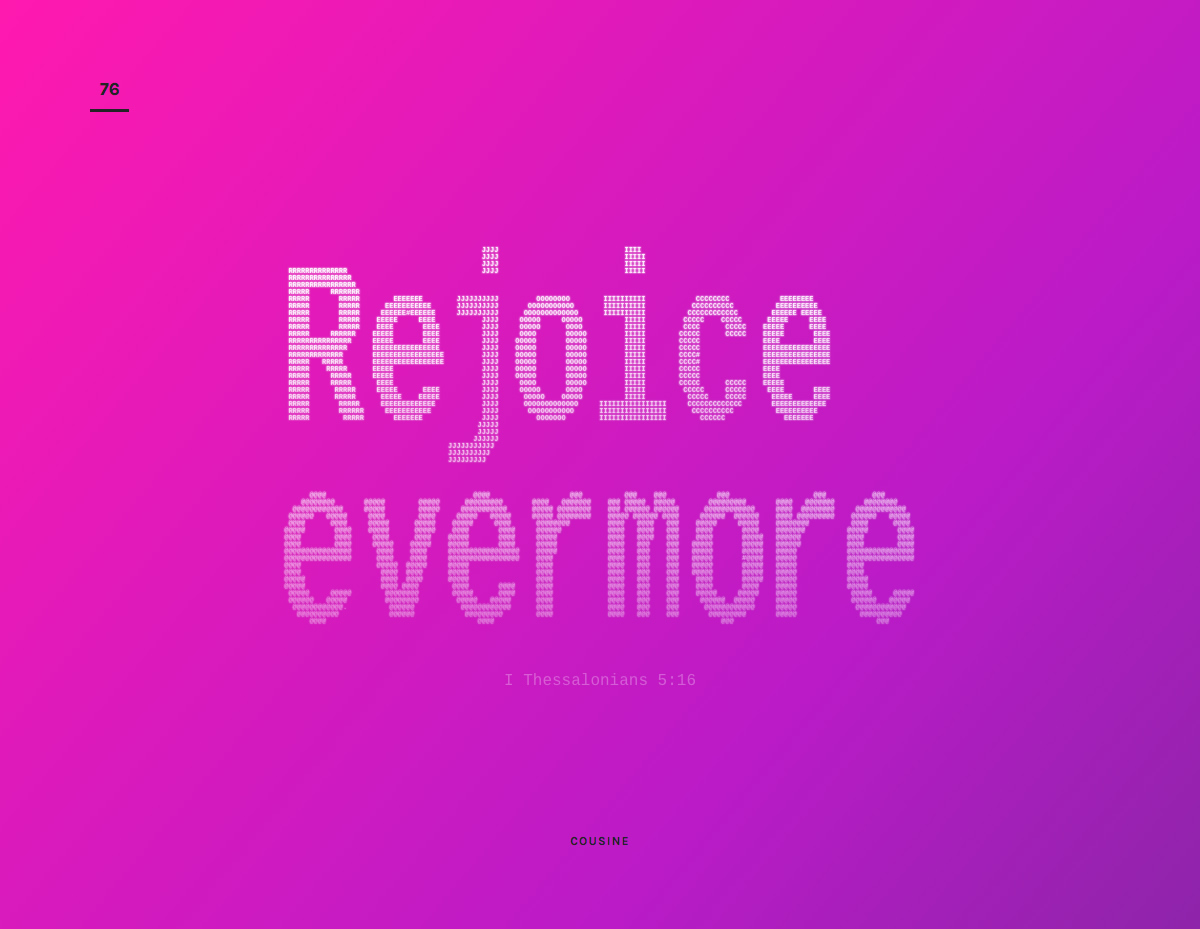
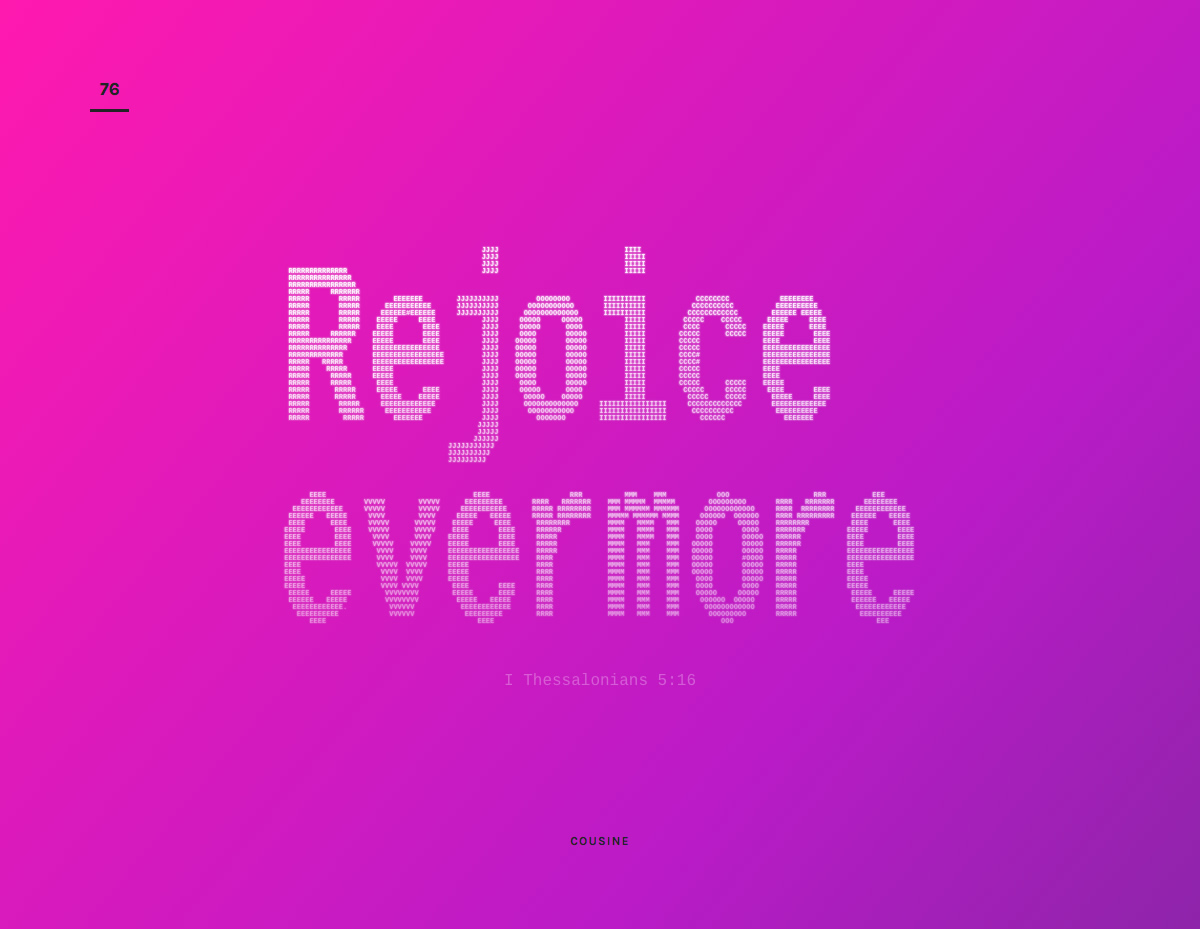
Fix Day 76.

Changed region(s): [[0.2158, 0.5307, 0.7708, 0.6868]]

diff --git a/index.html b/index.html
@@ -10,7 +10,7 @@
   <style>
     @charset "UTF-8";a,aside,b,blockquote,body,cite,div,em,figcaption,figure,footer,h1,h2,h3,h4,h5,h6,header,html,i,img,li,nav,ol,p,q,section,small,span,strong,sub,sup,time,ul{font:inherit;vertical-align:baseline;border:0;padding:0;margin:0}.about-description,.container,.day-scripture{margin-left:auto;margin-right:auto}.about-title-head,.about-title-tail,em,i{font-style:italic}.day-76-pre,.day-info,.day-number,b,strong{font-weight:700}article,aside,details,figcaption,figure,footer,header,nav,section{display:block}body{line-height:1;font-family:KarlaLocal,"Open Sans",Helvetica,Arial,sans-serif;color:#222324;text-rendering:optimizeLegibility;-webkit-font-variant-ligatures:common-ligatures;font-variant-ligatures:common-ligatures;-webkit-font-feature-settings:"liga";font-feature-settings:"liga"}ol,ul{list-style:none}blockquote,q{quotes:none}blockquote:after,blockquote:before,q:after,q:before{content:'';content:none}@font-face{font-family:KarlaLocal;font-weight:400;font-style:normal;src:local("Karla"),local("Karla-Regular")}@font-face{font-family:KarlaLocal;font-weight:700;font-style:normal;src:local("Karla"),local("Karla-Bold")}@font-face{font-family:PlayfairDisplayLocal;font-weight:400;font-style:normal;src:local("Playfair Display"),local("PlayfairDisplay-Regular")}@font-face{font-family:PlayfairDisplayLocal;font-weight:700;font-style:normal;src:local("Playfair Display"),local("PlayfairDisplay-Bold")}@font-face{font-family:PlayfairDisplayLocal;font-weight:700;font-style:italic;src:local("Playfair Display"),local("PlayfairDisplay-BoldItalic")}.fonts-loaded-100 body{font-family:Karla,KarlaLocal,"Open Sans",Helvetica,Arial,sans-serif}.fonts-timeout-100 body{font-family:KarlaLocal,Karla,"Open Sans",Helvetica,Arial,sans-serif}a{color:#3498db;text-decoration:none}.footer,.footer a{color:#fdfeff}a:hover{text-decoration:underline}.container{max-width:64em}.footer{font-size:.875em;text-align:center;background-color:#222324;padding-top:1.5625em;padding-bottom:1.5625em}@media only screen and (min-width:40em){.footer{padding-top:1.875em;padding-bottom:1.875em}}@media only screen and (min-width:52em){.footer{padding-top:2.5em;padding-bottom:2.5em}}.day-number{color:#222324;text-align:center;border-bottom:3px solid #222324;display:inline-block;width:2.1875em;padding-bottom:.625em;margin-bottom:3.5em}.day--14 .day-number,.day--15 .day-number,.day--2 .day-number,.day--5 .day-number,.day--9 .day-number,.day-number--white{color:#fdfeff;border-bottom-color:#fdfeff}.day-scripture{max-width:80em}.day-scripture::after{clear:both;content:"";display:table}.day-info{font-size:.75em;letter-spacing:.1em;text-transform:uppercase;text-align:center;margin-top:5.33333em}.day-reference{display:block}.day-font{color:#8a8b8c;line-height:1.4}.day-font-link{color:#222324}.about,.day{overflow:hidden;padding:2.5em .9375em}@media only screen and (min-width:30em){.about,.day{padding:3.125em 1.875em}.day-number{margin-bottom:4.0625em}.day-info{margin-top:6.25em}}@media only screen and (min-width:40em){.about,.day{padding:3.75em 3.4375em}.day-number{font-size:1.0625em;margin-bottom:4.23529em}.day-info{margin-top:7em}}@media only screen and (min-width:52em){.about,.day{padding:4.375em 4.6875em}.day-number{margin-bottom:4.8125em}.day-info{margin-top:7.58333em}}@media only screen and (min-width:64em){.about,.day{padding:5em 5.625em}.day-number{font-size:1.125em;margin-bottom:4.44444em}.day-info{margin-top:8em}}.about{background-color:#f2f3f4}.about-title-wrap{text-align:center}.about-title{font-family:PlayfairDisplayLocal,"Times New Roman",Times,serif;margin-bottom:1.25em}.fonts-loaded-100 .about-title{font-family:"Playfair Display",PlayfairDisplayLocal,"Times New Roman",Times,serif}.fonts-timeout-100 .about-title{font-family:PlayfairDisplayLocal,"Playfair Display","Times New Roman",Times,serif}.about-title-head{font-size:2.5em;font-weight:700;display:block}.about-title-tail{font-size:1em;letter-spacing:.22em;text-transform:uppercase;position:relative;left:.0625em}.about-description{color:#454647;line-height:1.3;letter-spacing:-.02em;max-width:31.25em}.about-description p:first-child{margin-bottom:.5em}.day--76{background:linear-gradient(130deg,#ff19af,#ba1bc7 70%,#8e24aa)}.day--76 .day-scripture{padding-top:1em;padding-bottom:1em}@media only screen and (min-width:30em){.day--76 .day-scripture{padding-top:2em;padding-bottom:2em}}@media only screen and (min-width:40em){.container--about{display:-webkit-flex;display:-ms-flexbox;display:flex;-webkit-justify-content:center;-ms-flex-pack:center;justify-content:center}.about-title-wrap{text-align:right;-webkit-flex:0 0 13.125em;-ms-flex:0 0 13.125em;flex:0 0 13.125em;margin-right:3.125em}.about-description{-webkit-flex:1;-ms-flex:1;flex:1;max-width:25em;margin-left:0;margin-right:0}.about-title{margin-top:-.9375em;margin-bottom:0}.about-title-head{font-size:3em}.about-title-tail{font-size:1.1875em;letter-spacing:.23em;left:.18421em}.day--76 .day-scripture{padding-top:3em;padding-bottom:3em}}.day--76 .day-text{font-family:Cousine,mono;-moz-osx-font-smoothing:grayscale;-webkit-font-smoothing:antialiased}.day--76 .day-reference{margin-top:2em;text-align:center}@media only screen and (min-width:52em){.about-title-head{font-size:4em}.about-title-tail{font-size:1.375em;letter-spacing:.355em;left:.27273em}.about-title-wrap{-webkit-flex-basis:16.875em;-ms-flex-preferred-size:16.875em;flex-basis:16.875em;margin-right:4.375em}.day--76 .day-scripture{padding-top:3em;padding-bottom:3em}.day--76 .day-reference{margin-top:3em}}.day--76 .day-reference-link{color:rgba(253,254,255,.3)}.day-76-pre{font-size:3px;width:280px;margin-left:auto;margin-right:auto;white-space:pre-wrap}@media only screen and (min-width:30em){.day-76-pre{font-size:4px;width:370px}}@media only screen and (min-width:40em){.day-76-pre{font-size:5px;width:460px}}@media only screen and (min-width:52em){.day-76-pre{font-size:7px;width:640px}}.day-76-pre-1{color:rgba(253,254,255,.948);text-shadow:0 0 1px rgba(253,254,255,.5688),0 0 2px rgba(253,254,255,.474),0 0 3px rgba(253,254,255,.3792)}.day-76-pre-2{color:rgba(253,254,255,.936);text-shadow:0 0 1px rgba(253,254,255,.5616),0 0 2px rgba(253,254,255,.468),0 0 3px rgba(253,254,255,.3744)}.day-76-pre-3{color:rgba(253,254,255,.924);text-shadow:0 0 1px rgba(253,254,255,.5544),0 0 2px rgba(253,254,255,.462),0 0 3px rgba(253,254,255,.3696)}.day-76-pre-4{color:rgba(253,254,255,.912);text-shadow:0 0 1px rgba(253,254,255,.5472),0 0 2px rgba(253,254,255,.456),0 0 3px rgba(253,254,255,.3648)}.day-76-pre-5{color:rgba(253,254,255,.9);text-shadow:0 0 1px rgba(253,254,255,.54),0 0 2px rgba(253,254,255,.45),0 0 3px rgba(253,254,255,.36)}.day-76-pre-6{color:rgba(253,254,255,.888);text-shadow:0 0 1px rgba(253,254,255,.5328),0 0 2px rgba(253,254,255,.444),0 0 3px rgba(253,254,255,.3552)}.day-76-pre-7{color:rgba(253,254,255,.876);text-shadow:0 0 1px rgba(253,254,255,.5256),0 0 2px rgba(253,254,255,.438),0 0 3px rgba(253,254,255,.3504)}.day-76-pre-8{color:rgba(253,254,255,.864);text-shadow:0 0 1px rgba(253,254,255,.5184),0 0 2px rgba(253,254,255,.432),0 0 3px rgba(253,254,255,.3456)}.day-76-pre-9{color:rgba(253,254,255,.852);text-shadow:0 0 1px rgba(253,254,255,.5112),0 0 2px rgba(253,254,255,.426),0 0 3px rgba(253,254,255,.3408)}.day-76-pre-10{color:rgba(253,254,255,.84);text-shadow:0 0 1px rgba(253,254,255,.504),0 0 2px rgba(253,254,255,.42),0 0 3px rgba(253,254,255,.336)}.day-76-pre-11{color:rgba(253,254,255,.828);text-shadow:0 0 1px rgba(253,254,255,.4968),0 0 2px rgba(253,254,255,.414),0 0 3px rgba(253,254,255,.3312)}.day-76-pre-12{color:rgba(253,254,255,.816);text-shadow:0 0 1px rgba(253,254,255,.4896),0 0 2px rgba(253,254,255,.408),0 0 3px rgba(253,254,255,.3264)}.day-76-pre-13{color:rgba(253,254,255,.804);text-shadow:0 0 1px rgba(253,254,255,.4824),0 0 2px rgba(253,254,255,.402),0 0 3px rgba(253,254,255,.3216)}.day-76-pre-14{color:rgba(253,254,255,.792);text-shadow:0 0 1px rgba(253,254,255,.4752),0 0 2px rgba(253,254,255,.396),0 0 3px rgba(253,254,255,.3168)}.day-76-pre-15{color:rgba(253,254,255,.78);text-shadow:0 0 1px rgba(253,254,255,.468),0 0 2px rgba(253,254,255,.39),0 0 3px rgba(253,254,255,.312)}.day-76-pre-16{color:rgba(253,254,255,.768);text-shadow:0 0 1px rgba(253,254,255,.4608),0 0 2px rgba(253,254,255,.384),0 0 3px rgba(253,254,255,.3072)}.day-76-pre-17{color:rgba(253,254,255,.756);text-shadow:0 0 1px rgba(253,254,255,.4536),0 0 2px rgba(253,254,255,.378),0 0 3px rgba(253,254,255,.3024)}.day-76-pre-18{color:rgba(253,254,255,.744);text-shadow:0 0 1px rgba(253,254,255,.4464),0 0 2px rgba(253,254,255,.372),0 0 3px rgba(253,254,255,.2976)}.day-76-pre-19{color:rgba(253,254,255,.732);text-shadow:0 0 1px rgba(253,254,255,.4392),0 0 2px rgba(253,254,255,.366),0 0 3px rgba(253,254,255,.2928)}.day-76-pre-20{color:rgba(253,254,255,.72);text-shadow:0 0 1px rgba(253,254,255,.432),0 0 2px rgba(253,254,255,.36),0 0 3px rgba(253,254,255,.288)}.day-76-pre-21{color:rgba(253,254,255,.708);text-shadow:0 0 1px rgba(253,254,255,.4248),0 0 2px rgba(253,254,255,.354),0 0 3px rgba(253,254,255,.2832)}.day-76-pre-22{color:rgba(253,254,255,.696);text-shadow:0 0 1px rgba(253,254,255,.4176),0 0 2px rgba(253,254,255,.348),0 0 3px rgba(253,254,255,.2784)}.day-76-pre-23{color:rgba(253,254,255,.684);text-shadow:0 0 1px rgba(253,254,255,.4104),0 0 2px rgba(253,254,255,.342),0 0 3px rgba(253,254,255,.2736)}.day-76-pre-24{color:rgba(253,254,255,.672);text-shadow:0 0 1px rgba(253,254,255,.4032),0 0 2px rgba(253,254,255,.336),0 0 3px rgba(253,254,255,.2688)}.day-76-pre-25{color:rgba(253,254,255,.66);text-shadow:0 0 1px rgba(253,254,255,.396),0 0 2px rgba(253,254,255,.33),0 0 3px rgba(253,254,255,.264)}.day-76-pre-26{color:rgba(253,254,255,.648);text-shadow:0 0 1px rgba(253,254,255,.3888),0 0 2px rgba(253,254,255,.324),0 0 3px rgba(253,254,255,.2592)}.day-76-pre-27{color:rgba(253,254,255,.636);text-shadow:0 0 1px rgba(253,254,255,.3816),0 0 2px rgba(253,254,255,.318),0 0 3px rgba(253,254,255,.2544)}.day-76-pre-28{color:rgba(253,254,255,.624);text-shadow:0 0 1px rgba(253,254,255,.3744),0 0 2px rgba(253,254,255,.312),0 0 3px rgba(253,254,255,.2496)}.day-76-pre-29{color:rgba(253,254,255,.612);text-shadow:0 0 1px rgba(253,254,255,.3672),0 0 2px rgba(253,254,255,.306),0 0 3px rgba(253,254,255,.2448)}.day-76-pre-30{color:rgba(253,254,255,.6);text-shadow:0 0 1px rgba(253,254,255,.36),0 0 2px rgba(253,254,255,.3),0 0 3px rgba(253,254,255,.24)}.day-76-pre-31{color:rgba(253,254,255,.588);text-shadow:0 0 1px rgba(253,254,255,.3528),0 0 2px rgba(253,254,255,.294),0 0 3px rgba(253,254,255,.2352)}.day-76-pre-32{color:rgba(253,254,255,.576);text-shadow:0 0 1px rgba(253,254,255,.3456),0 0 2px rgba(253,254,255,.288),0 0 3px rgba(253,254,255,.2304)}.day-76-pre-33{color:rgba(253,254,255,.564);text-shadow:0 0 1px rgba(253,254,255,.3384),0 0 2px rgba(253,254,255,.282),0 0 3px rgba(253,254,255,.2256)}.day-76-pre-34{color:rgba(253,254,255,.552);text-shadow:0 0 1px rgba(253,254,255,.3312),0 0 2px rgba(253,254,255,.276),0 0 3px rgba(253,254,255,.2208)}.day-76-pre-35{color:rgba(253,254,255,.54);text-shadow:0 0 1px rgba(253,254,255,.324),0 0 2px rgba(253,254,255,.27),0 0 3px rgba(253,254,255,.216)}.day-76-pre-36{color:rgba(253,254,255,.528);text-shadow:0 0 1px rgba(253,254,255,.3168),0 0 2px rgba(253,254,255,.264),0 0 3px rgba(253,254,255,.2112)}.day-76-pre-37{color:rgba(253,254,255,.516);text-shadow:0 0 1px rgba(253,254,255,.3096),0 0 2px rgba(253,254,255,.258),0 0 3px rgba(253,254,255,.2064)}.day-76-pre-38{color:rgba(253,254,255,.504);text-shadow:0 0 1px rgba(253,254,255,.3024),0 0 2px rgba(253,254,255,.252),0 0 3px rgba(253,254,255,.2016)}.day-76-pre-39{color:rgba(253,254,255,.492);text-shadow:0 0 1px rgba(253,254,255,.2952),0 0 2px rgba(253,254,255,.246),0 0 3px rgba(253,254,255,.1968)}.day-76-pre-40{color:rgba(253,254,255,.48);text-shadow:0 0 1px rgba(253,254,255,.288),0 0 2px rgba(253,254,255,.24),0 0 3px rgba(253,254,255,.192)}.day-76-pre-41{color:rgba(253,254,255,.468);text-shadow:0 0 1px rgba(253,254,255,.2808),0 0 2px rgba(253,254,255,.234),0 0 3px rgba(253,254,255,.1872)}.day-76-pre-42{color:rgba(253,254,255,.456);text-shadow:0 0 1px rgba(253,254,255,.2736),0 0 2px rgba(253,254,255,.228),0 0 3px rgba(253,254,255,.1824)}.day-76-pre-43{color:rgba(253,254,255,.444);text-shadow:0 0 1px rgba(253,254,255,.2664),0 0 2px rgba(253,254,255,.222),0 0 3px rgba(253,254,255,.1776)}.day-76-pre-44{color:rgba(253,254,255,.432);text-shadow:0 0 1px rgba(253,254,255,.2592),0 0 2px rgba(253,254,255,.216),0 0 3px rgba(253,254,255,.1728)}.day-76-pre-45{color:rgba(253,254,255,.42);text-shadow:0 0 1px rgba(253,254,255,.252),0 0 2px rgba(253,254,255,.21),0 0 3px rgba(253,254,255,.168)}.day-76-pre-46{color:rgba(253,254,255,.408);text-shadow:0 0 1px rgba(253,254,255,.2448),0 0 2px rgba(253,254,255,.204),0 0 3px rgba(253,254,255,.1632)}.day-76-pre-47{color:rgba(253,254,255,.396);text-shadow:0 0 1px rgba(253,254,255,.2376),0 0 2px rgba(253,254,255,.198),0 0 3px rgba(253,254,255,.1584)}.day-76-pre-48{color:rgba(253,254,255,.384);text-shadow:0 0 1px rgba(253,254,255,.2304),0 0 2px rgba(253,254,255,.192),0 0 3px rgba(253,254,255,.1536)}.day-76-pre-49{color:rgba(253,254,255,.372);text-shadow:0 0 1px rgba(253,254,255,.2232),0 0 2px rgba(253,254,255,.186),0 0 3px rgba(253,254,255,.1488)}.day-76-pre-50{color:rgba(253,254,255,.36);text-shadow:0 0 1px rgba(253,254,255,.216),0 0 2px rgba(253,254,255,.18),0 0 3px rgba(253,254,255,.144)}.day-76-pre-51{color:rgba(253,254,255,.348);text-shadow:0 0 1px rgba(253,254,255,.2088),0 0 2px rgba(253,254,255,.174),0 0 3px rgba(253,254,255,.1392)}
   </style>
-  <meta name="mainCSS" content="assets/css/screen.css?20151020">
+  <meta name="mainCSS" content="assets/css/screen.css?201510201">
 
   <script>
     /*! loadCSS: load a CSS file asynchronously. [c]2014 @scottjehl, Filament Group, Inc. Licensed MIT */
@@ -26,7 +26,7 @@
 
   <noscript>
     <link rel="stylesheet" href="//fonts.googleapis.com/css?family=Karla:400,700|Playfair+Display:400,400italic,700,700italic,900|Cousine:400,700|Arbutus+Slab|Lora:400italic,700|Jaldi|Caveat|Roboto+Mono|Abel|Tinos:400,700|Julius+Sans+One|Satisfy|Raleway:200|Gravitas+One|UnifrakturMaguntia|Catamaran:600|Unica+One|Megrim|Titillium+Web:900|Rubik|EB+Garamond|Kaushan+Script|Chivo|Cutive+Mono|Trocchi|Montserrat+Subrayada|Rock+Salt|Monoton|Playfair+Display+SC:700italic|Poppins|Cinzel|Work+Sans:600|Domine|Suranna|Yantramanav:900|Montserrat+Alternates|Istok+Web:400,700|Sacramento|Questrial|Vidaloka|Source+Sans+Pro:400,900|Neuton|Oxygen:700|VT323|Chonburi|Josefin+Slab|Droid+Serif|Exo|Lustria|Permanent+Marker|Vollkorn:400,400italic|Arimo|Londrina+Sketch|Francois+One|Bangers|Patrick+Hand|League+Script|Quicksand|Prata|Fira+Sans:500|Amiri:400,700|Fjalla+One|Arapey|Hind:700|Gentium+Book+Basic:400,700|Share+Tech+Mono|PT+Serif:400,700italic|Montserrat|Inconsolata:700|Codystar|Old+Standard+TT:400,400italic|Oswald:300,400|Ovo|Lato:100,400|Libre+Baskerville:400italic|Vast+Shadow|Amatic+SC|PT+Mono|Abril+Fatface|Roboto:100,300|Crimson+Text:400,400italic,700|Glegoo:400,700">
-    <link rel="stylesheet" href="assets/css/screen.css?20151020">
+    <link rel="stylesheet" href="assets/css/screen.css?201510201">
   </noscript>
 
   <link rel="canonical" href="https://jonsuh.com/100-days-of-scriptures/">
@@ -43,7 +43,7 @@
   <meta property="og:type" content="website">
 
   <meta property="og:description" content="One passage of Scripture, every day, for 100 days.">
-  <meta property="og:image" content="https://jonsuh.com/100-days-of-scriptures/assets/images/day-76.jpg">
+  <meta property="og:image" content="https://jonsuh.com/100-days-of-scriptures/assets/images/day-76.jpg?v2">
   <meta property="fb:admins" content="506470591">
 
   <meta name="twitter:card" content="summary">
@@ -52,7 +52,7 @@
   <meta name="twitter:url" content="https://jonsuh.com/100-days-of-scriptures/">
   <meta name="twitter:title" content="100 Days of Scriptures">
   <meta name="twitter:description" content="One passage of Scripture, every day, for 100 days.">
-  <meta name="twitter:image:src" content="https://jonsuh.com/100-days-of-scriptures/assets/images/day-76.jpg">
+  <meta name="twitter:image:src" content="https://jonsuh.com/100-days-of-scriptures/assets/images/day-76.jpg?v2">
 
   <meta name="mobile-web-app-capable" content="yes">
   <link rel="icon" sizes="192x192" href="https://jonsuh.com/100-days-of-scriptures/icon.png">
@@ -126,25 +126,25 @@
  
 
  
-<span class="day-76-pre-33">       @@@@                                   @@@@                   @@@          @@@    @@@            @@@                    @@@           @@@</span>
-<span class="day-76-pre-34">     @@@@@@@@       @@@@@        @@@@@      @@@@@@@@@       @@@@   @@@@@@@    @@@ @@@@@  @@@@@        @@@@@@@@@       @@@@   @@@@@@@       @@@@@@@@</span>
-<span class="day-76-pre-35">   @@@@@@@@@@@@     @@@@@        @@@@@     @@@@@@@@@@@      @@@@@ @@@@@@@@    @@@ @@@@@@ @@@@@@      @@@@@@@@@@@@     @@@@  @@@@@@@@     @@@@@@@@@@@@</span>
-<span class="day-76-pre-36">  @@@@@@   @@@@@     @@@@        @@@@     @@@@@   @@@@@     @@@@@ @@@@@@@@    @@@@@ @@@@@@ @@@@     @@@@@@  @@@@@@    @@@@ @@@@@@@@@    @@@@@@   @@@@@</span>
-<span class="day-76-pre-37">  @@@@      @@@@     @@@@@      @@@@@    @@@@@     @@@@      @@@@@@@@         @@@@   @@@@   @@@    @@@@@     @@@@@    @@@@@@@@          @@@@      @@@@</span>
-<span class="day-76-pre-38"> @@@@@       @@@@    @@@@@      @@@@@    @@@@       @@@@     @@@@@@           @@@@   @@@@   @@@    @@@@       @@@@    @@@@@@@          @@@@@       @@@@</span>
-<span class="day-76-pre-39"> @@@@        @@@@     @@@@      @@@@    @@@@@       @@@@     @@@@@            @@@@   @@@@   @@@    @@@@       @@@@@   @@@@@@           @@@@        @@@@</span>
-<span class="day-76-pre-40"> @@@@        @@@@     @@@@@    @@@@@    @@@@@       @@@@     @@@@@            @@@@   @@@    @@@   @@@@@       @@@@@   @@@@@@           @@@@        @@@@</span>
-<span class="day-76-pre-41"> @@@@@@@@@@@@@@@@      @@@@    @@@@     @@@@@@@@@@@@@@@@@    @@@@@            @@@@   @@@    @@@   @@@@@       @@@@@   @@@@@            @@@@@@@@@@@@@@@@</span>
-<span class="day-76-pre-42"> @@@@@@@@@@@@@@@@      @@@@    @@@@     @@@@@@@@@@@@@@@@@    @@@@             @@@@   @@@    @@@   @@@@@       #@@@@   @@@@@            @@@@@@@@@@@@@@@@</span>
-<span class="day-76-pre-43"> @@@@                  @@@@@  @@@@@     @@@@@                @@@@             @@@@   @@@    @@@   @@@@@       @@@@@   @@@@@            @@@@</span>
-<span class="day-76-pre-44"> @@@@                   @@@@  @@@@      @@@@@                @@@@             @@@@   @@@    @@@   @@@@@       @@@@@   @@@@@            @@@@</span>
-<span class="day-76-pre-45"> @@@@@                  @@@@  @@@@      @@@@@                @@@@             @@@@   @@@    @@@    @@@@       @@@@@   @@@@@            @@@@@</span>
-<span class="day-76-pre-46"> @@@@@                  @@@@ @@@@        @@@@       @@@@     @@@@             @@@@   @@@    @@@    @@@@       @@@@    @@@@@            @@@@@</span>
-<span class="day-76-pre-47">  @@@@@     @@@@@        @@@@@@@@        @@@@@      @@@@     @@@@             @@@@   @@@    @@@    @@@@@     @@@@@    @@@@@             @@@@@     @@@@@</span>
-<span class="day-76-pre-48">  @@@@@@   @@@@@         @@@@@@@@         @@@@@   @@@@@      @@@@             @@@@   @@@    @@@     @@@@@@  @@@@@     @@@@@             @@@@@@   @@@@@</span>
-<span class="day-76-pre-49">   @@@@@@@@@@@@.          @@@@@@           @@@@@@@@@@@@      @@@@             @@@@   @@@    @@@      @@@@@@@@@@@@     @@@@@              @@@@@@@@@@@@</span>
-<span class="day-76-pre-50">    @@@@@@@@@@            @@@@@@            @@@@@@@@@        @@@@             @@@@   @@@    @@@       @@@@@@@@@       @@@@@               @@@@@@@@@@</span>
-<span class="day-76-pre-51">       @@@@                                    @@@@                                                      @@@                                  @@@</span>
+<span class="day-76-pre-33">       EEEE                                   EEEE                   RRR          MMM    MMM            OOO                    RRR           EEE</span>
+<span class="day-76-pre-34">     EEEEEEEE       VVVVV        VVVVV      EEEEEEEEE       RRRR   RRRRRRR    MMM MMMMM  MMMMM        OOOOOOOOO       RRRR   RRRRRRR       EEEEEEEE</span>
+<span class="day-76-pre-35">   EEEEEEEEEEEE     VVVVV        VVVVV     EEEEEEEEEEE      RRRRR RRRRRRRR    MMM MMMMMM MMMMMM      OOOOOOOOOOOO     RRRR  RRRRRRRR     EEEEEEEEEEEE</span>
+<span class="day-76-pre-36">  EEEEEE   EEEEE     VVVV        VVVV     EEEEE   EEEEE     RRRRR RRRRRRRR    MMMMM MMMMMM MMMM     OOOOOO  OOOOOO    RRRR RRRRRRRRR    EEEEEE   EEEEE</span>
+<span class="day-76-pre-37">  EEEE      EEEE     VVVVV      VVVVV    EEEEE     EEEE      RRRRRRRR         MMMM   MMMM   MMM    OOOOO     OOOOO    RRRRRRRR          EEEE      EEEE</span>
+<span class="day-76-pre-38"> EEEEE       EEEE    VVVVV      VVVVV    EEEE       EEEE     RRRRRR           MMMM   MMMM   MMM    OOOO       OOOO    RRRRRRR          EEEEE       EEEE</span>
+<span class="day-76-pre-39"> EEEE        EEEE     VVVV      VVVV    EEEEE       EEEE     RRRRR            MMMM   MMMM   MMM    OOOO       OOOOO   RRRRRR           EEEE        EEEE</span>
+<span class="day-76-pre-40"> EEEE        EEEE     VVVVV    VVVVV    EEEEE       EEEE     RRRRR            MMMM   MMM    MMM   OOOOO       OOOOO   RRRRRR           EEEE        EEEE</span>
+<span class="day-76-pre-41"> EEEEEEEEEEEEEEEE      VVVV    VVVV     EEEEEEEEEEEEEEEEE    RRRRR            MMMM   MMM    MMM   OOOOO       OOOOO   RRRRR            EEEEEEEEEEEEEEEE</span>
+<span class="day-76-pre-42"> EEEEEEEEEEEEEEEE      VVVV    VVVV     EEEEEEEEEEEEEEEEE    RRRR             MMMM   MMM    MMM   OOOOO       #OOOO   RRRRR            EEEEEEEEEEEEEEEE</span>
+<span class="day-76-pre-43"> EEEE                  VVVVV  VVVVV     EEEEE                RRRR             MMMM   MMM    MMM   OOOOO       OOOOO   RRRRR            EEEE</span>
+<span class="day-76-pre-44"> EEEE                   VVVV  VVVV      EEEEE                RRRR             MMMM   MMM    MMM   OOOOO       OOOOO   RRRRR            EEEE</span>
+<span class="day-76-pre-45"> EEEEE                  VVVV  VVVV      EEEEE                RRRR             MMMM   MMM    MMM    OOOO       OOOOO   RRRRR            EEEEE</span>
+<span class="day-76-pre-46"> EEEEE                  VVVV VVVV        EEEE       EEEE     RRRR             MMMM   MMM    MMM    OOOO       OOOO    RRRRR            EEEEE</span>
+<span class="day-76-pre-47">  EEEEE     EEEEE        VVVVVVVV        EEEEE      EEEE     RRRR             MMMM   MMM    MMM    OOOOO     OOOOO    RRRRR             EEEEE     EEEEE</span>
+<span class="day-76-pre-48">  EEEEEE   EEEEE         VVVVVVVV         EEEEE   EEEEE      RRRR             MMMM   MMM    MMM     OOOOOO  OOOOO     RRRRR             EEEEEE   EEEEE</span>
+<span class="day-76-pre-49">   EEEEEEEEEEEE.          VVVVVV           EEEEEEEEEEEE      RRRR             MMMM   MMM    MMM      OOOOOOOOOOOO     RRRRR              EEEEEEEEEEEE</span>
+<span class="day-76-pre-50">    EEEEEEEEEE            VVVVVV            EEEEEEEEE        RRRR             MMMM   MMM    MMM       OOOOOOOOO       RRRRR               EEEEEEEEEE</span>
+<span class="day-76-pre-51">       EEEE                                    EEEE                                                      OOO                                  EEE</span>
 </div>
         <footer class="day-reference">
           <cite><a href="https://www.bible.com/bible/1/1th.5.16" class="day-reference-link" class="day-reference-link">I Thessalonians 5:16</a></cite>
